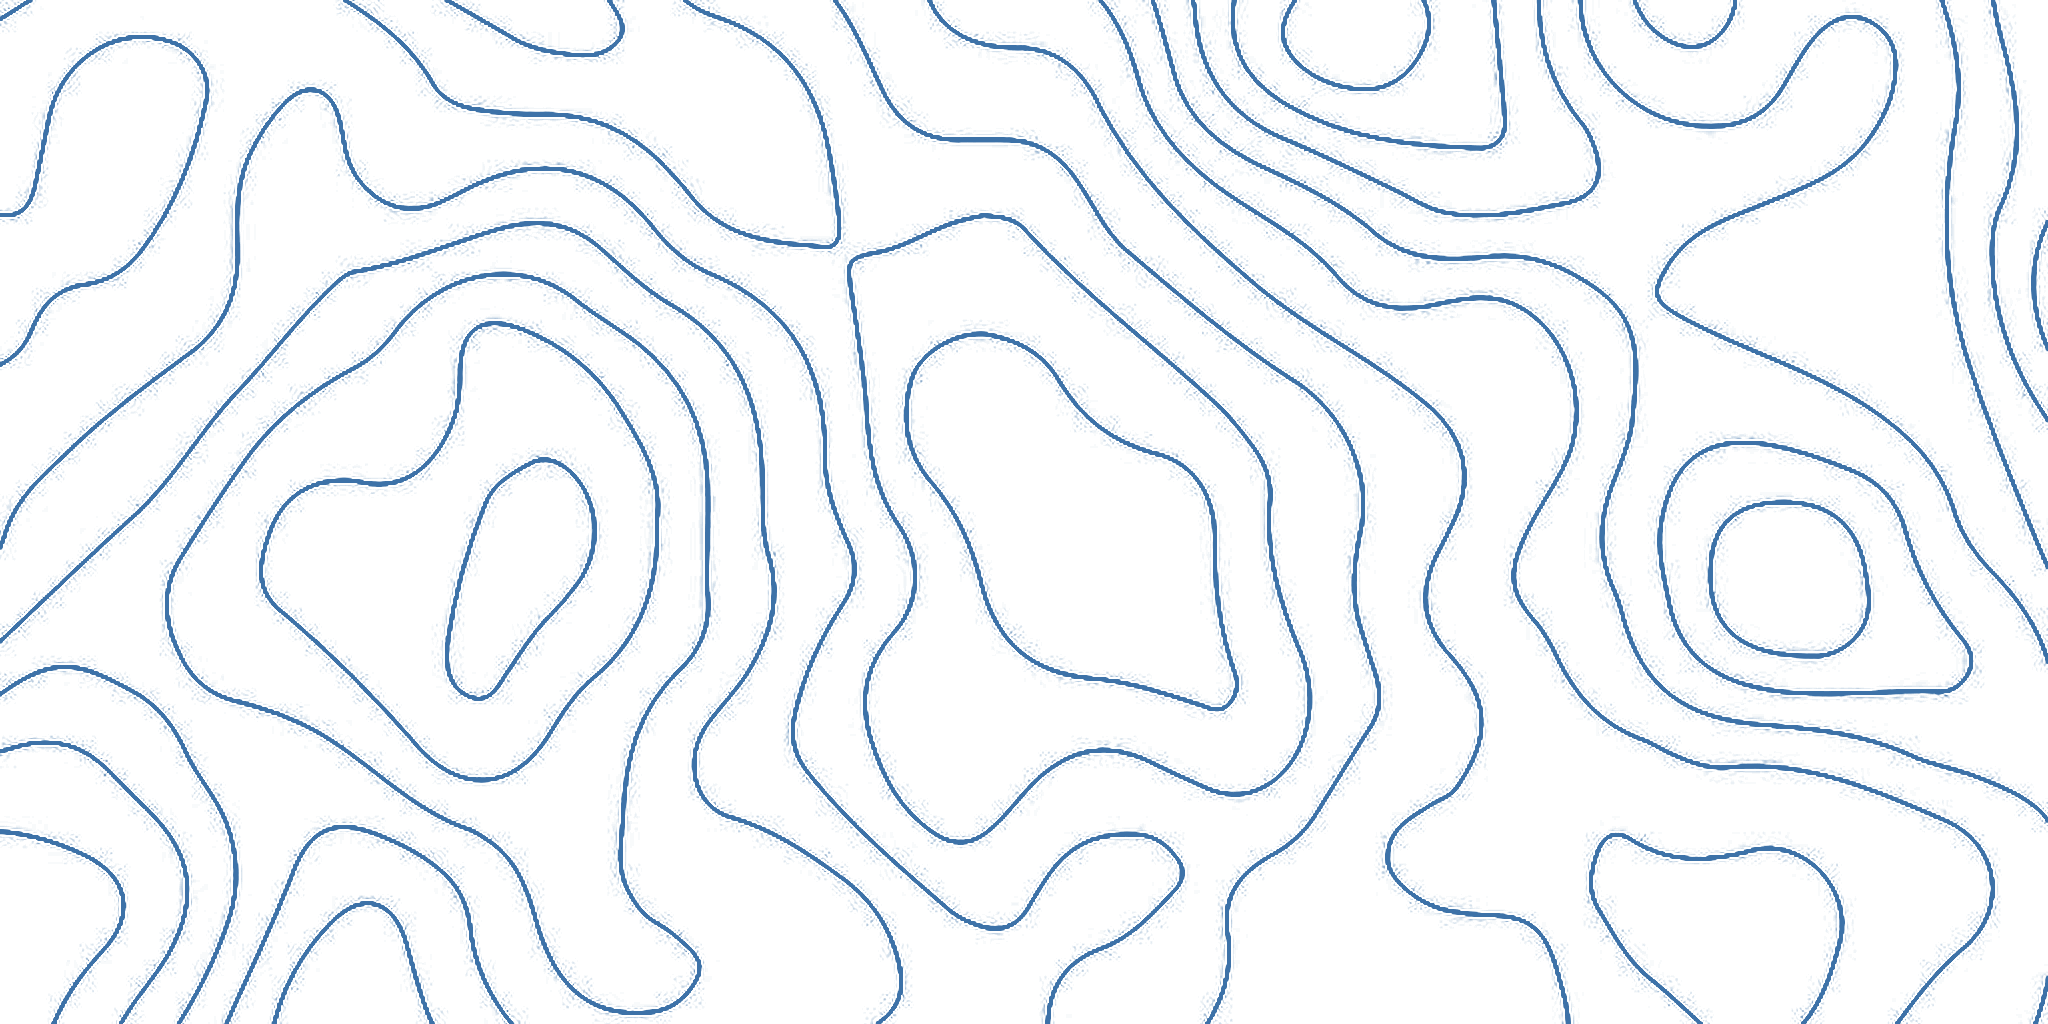
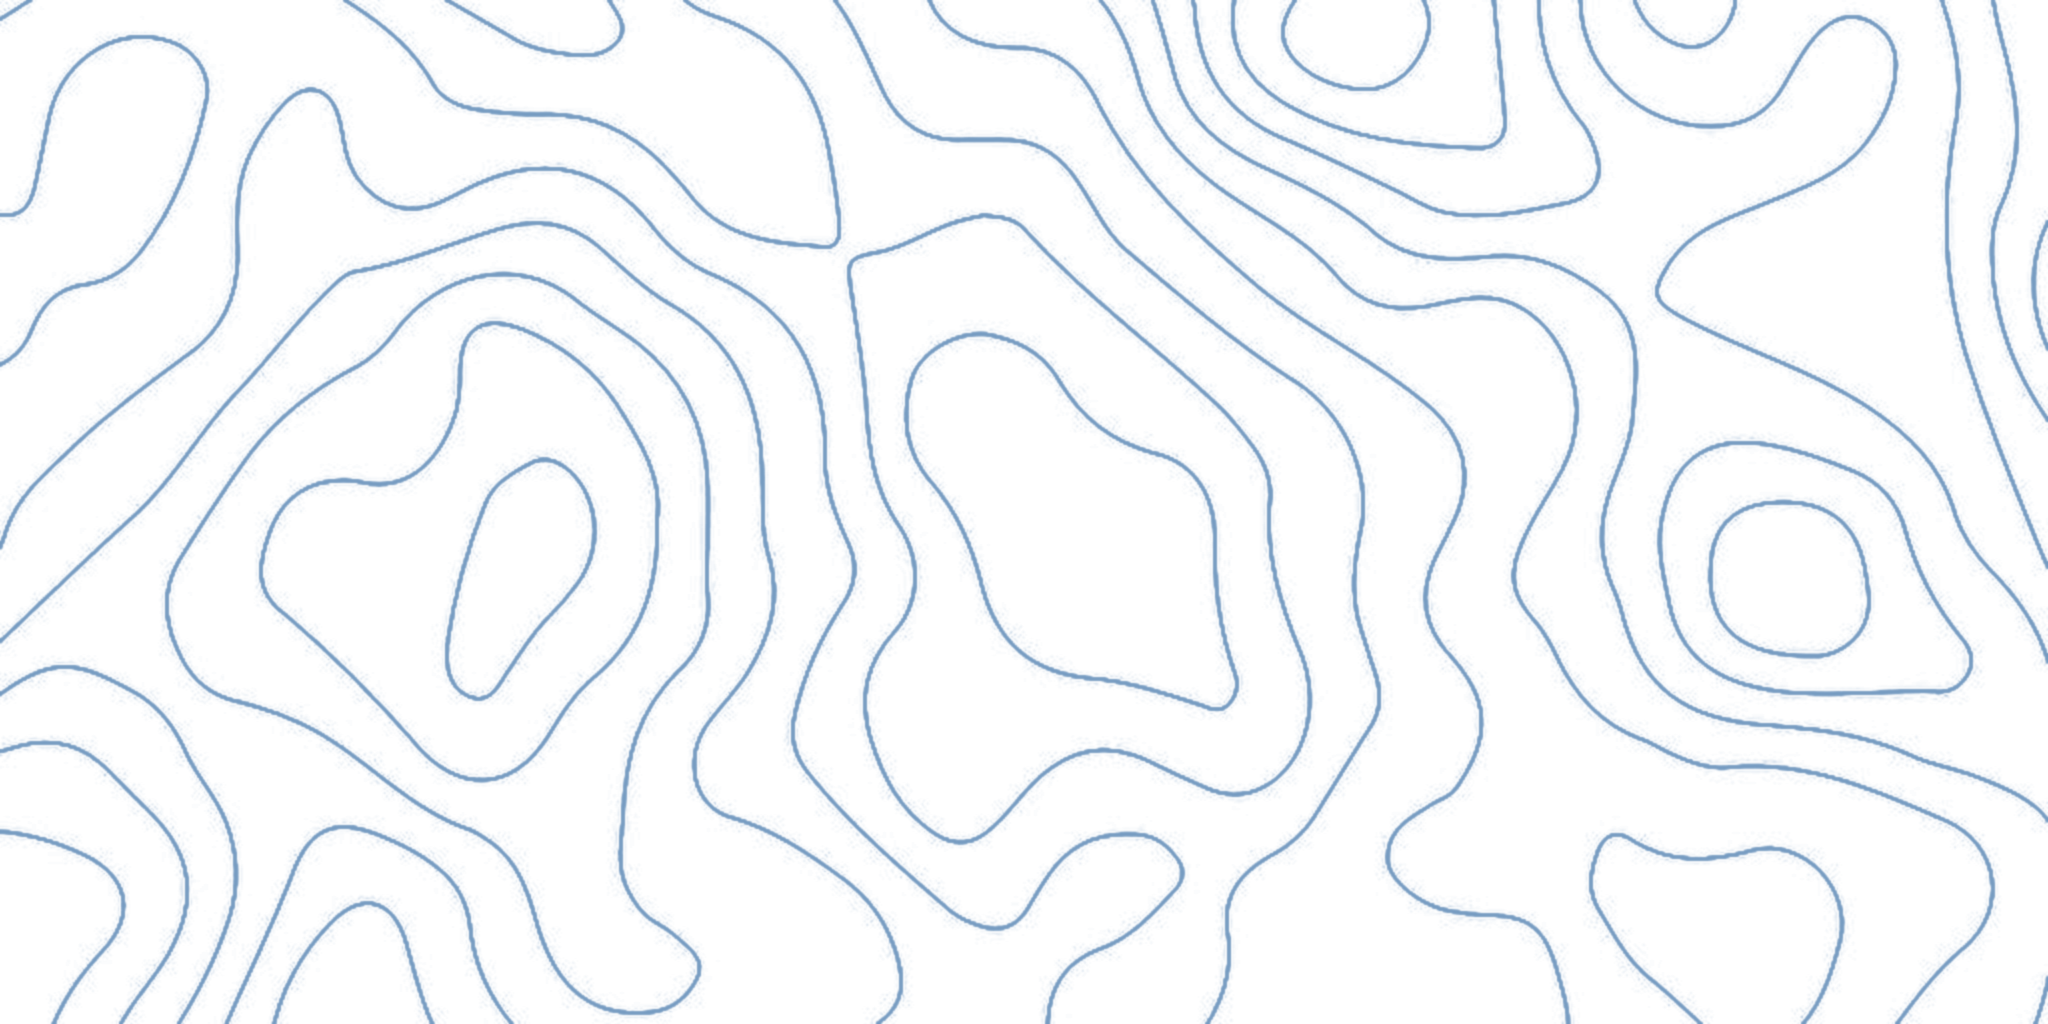
Soften topo map: lower contrast, blur, quieter vignette.

diff --git a/index.html b/index.html
@@ -94,10 +94,10 @@ window.scrollTo(0, 0);
     .dm-site footer{background:#f0f5f9 !important;padding-bottom:max(clamp(40px,6vw,64px),calc(28px + env(safe-area-inset-bottom,0px))) !important;}
     .dm-topo{position:absolute;inset:0;z-index:0;pointer-events:none;overflow:hidden;}
     .dm-topo-stage{position:absolute;inset:-14%;will-change:transform;transform:translate3d(0,0,0) scale(1.12);}
-    .dm-topo-layer{position:absolute;inset:0;background:center / cover no-repeat url("./topo-map.png");opacity:0.5;}
-    /* Full-bleed field; vignette clears logo/copy; soft blend into neighbors */
-    .dm-topo--hero{-webkit-mask-image:radial-gradient(ellipse 58% 52% at 50% 46%,transparent 0%,transparent 38%,rgba(0,0,0,0.3) 56%,rgba(0,0,0,0.8) 74%,#000 92%),linear-gradient(180deg,transparent 0%,#000 12%,#000 78%,transparent 100%);mask-image:radial-gradient(ellipse 58% 52% at 50% 46%,transparent 0%,transparent 38%,rgba(0,0,0,0.3) 56%,rgba(0,0,0,0.8) 74%,#000 92%),linear-gradient(180deg,transparent 0%,#000 12%,#000 78%,transparent 100%);-webkit-mask-composite:source-in;mask-composite:intersect;}
-    .dm-topo--close{-webkit-mask-image:radial-gradient(ellipse 56% 50% at 50% 48%,transparent 0%,transparent 36%,rgba(0,0,0,0.28) 54%,rgba(0,0,0,0.8) 72%,#000 92%),linear-gradient(180deg,transparent 0%,#000 12%,#000 84%,transparent 100%);mask-image:radial-gradient(ellipse 56% 50% at 50% 48%,transparent 0%,transparent 36%,rgba(0,0,0,0.28) 54%,rgba(0,0,0,0.8) 72%,#000 92%),linear-gradient(180deg,transparent 0%,#000 12%,#000 84%,transparent 100%);-webkit-mask-composite:source-in;mask-composite:intersect;}
+    .dm-topo-layer{position:absolute;inset:0;background:center / cover no-repeat url("./topo-map.png?v=2");opacity:0.22;filter:blur(0.6px) saturate(0.85);}
+    /* Soft vignette: airy center, quiet edge field, gentle neighbor blend */
+    .dm-topo--hero{-webkit-mask-image:radial-gradient(ellipse 64% 58% at 50% 46%,transparent 0%,transparent 46%,rgba(0,0,0,0.18) 62%,rgba(0,0,0,0.55) 78%,rgba(0,0,0,0.7) 100%),linear-gradient(180deg,transparent 0%,#000 16%,#000 74%,transparent 100%);mask-image:radial-gradient(ellipse 64% 58% at 50% 46%,transparent 0%,transparent 46%,rgba(0,0,0,0.18) 62%,rgba(0,0,0,0.55) 78%,rgba(0,0,0,0.7) 100%),linear-gradient(180deg,transparent 0%,#000 16%,#000 74%,transparent 100%);-webkit-mask-composite:source-in;mask-composite:intersect;}
+    .dm-topo--close{-webkit-mask-image:radial-gradient(ellipse 62% 56% at 50% 48%,transparent 0%,transparent 44%,rgba(0,0,0,0.16) 60%,rgba(0,0,0,0.52) 76%,rgba(0,0,0,0.68) 100%),linear-gradient(180deg,transparent 0%,#000 16%,#000 80%,transparent 100%);mask-image:radial-gradient(ellipse 62% 56% at 50% 48%,transparent 0%,transparent 44%,rgba(0,0,0,0.16) 60%,rgba(0,0,0,0.52) 76%,rgba(0,0,0,0.68) 100%),linear-gradient(180deg,transparent 0%,#000 16%,#000 80%,transparent 100%);-webkit-mask-composite:source-in;mask-composite:intersect;}
     section[data-screen-label="Hero"] > .dm-hero-mark,
     section[data-screen-label="Close"] > .dm-hero-mark{z-index:1;}
     section[data-screen-label="Hero"] > .dm-hero-copy,